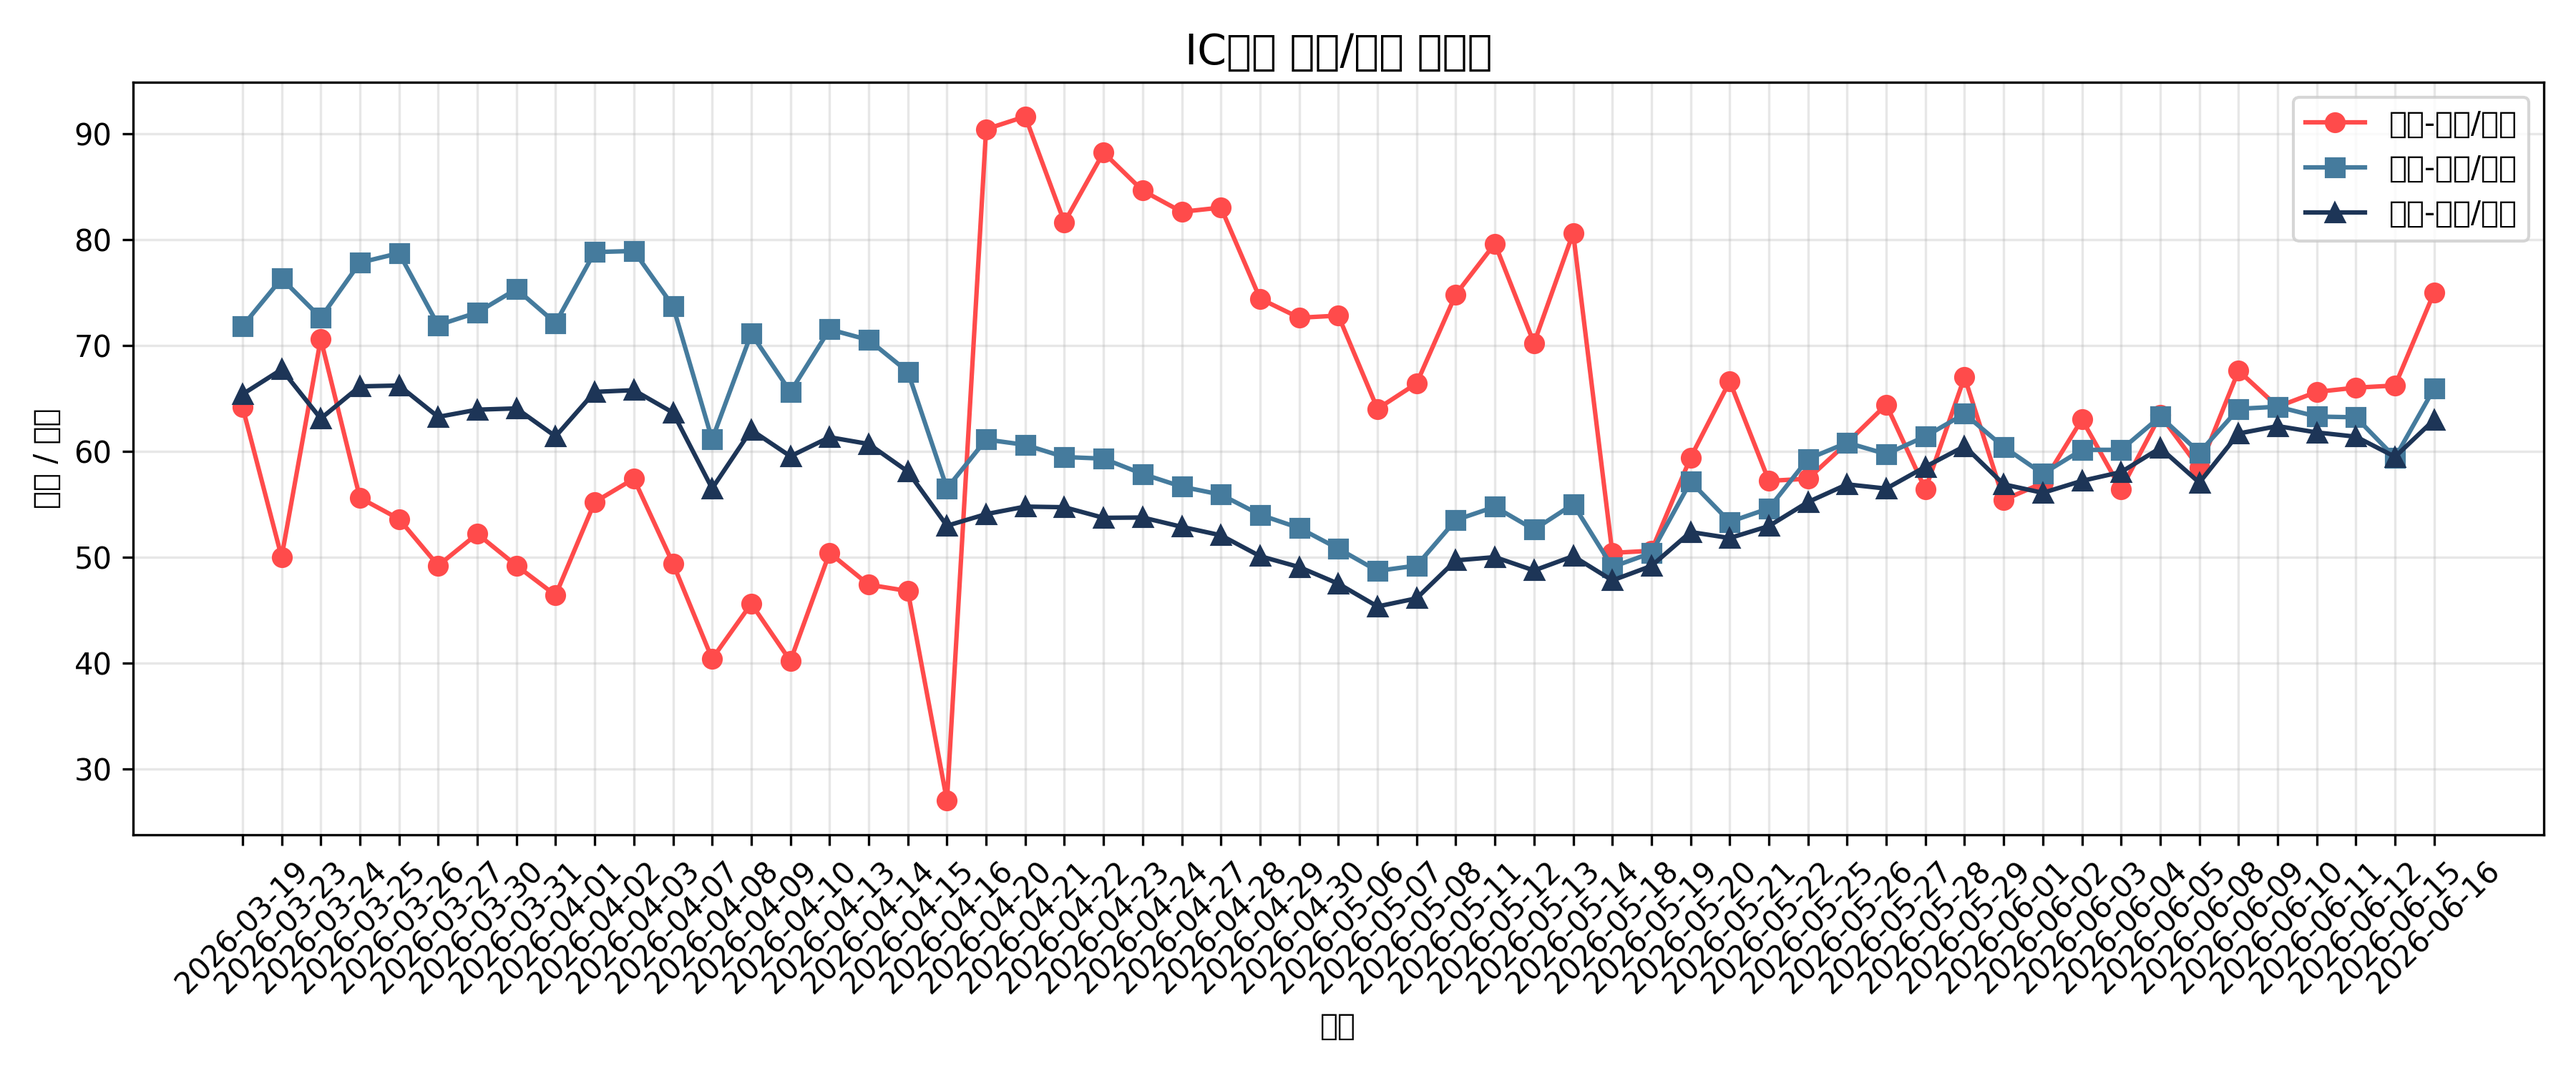
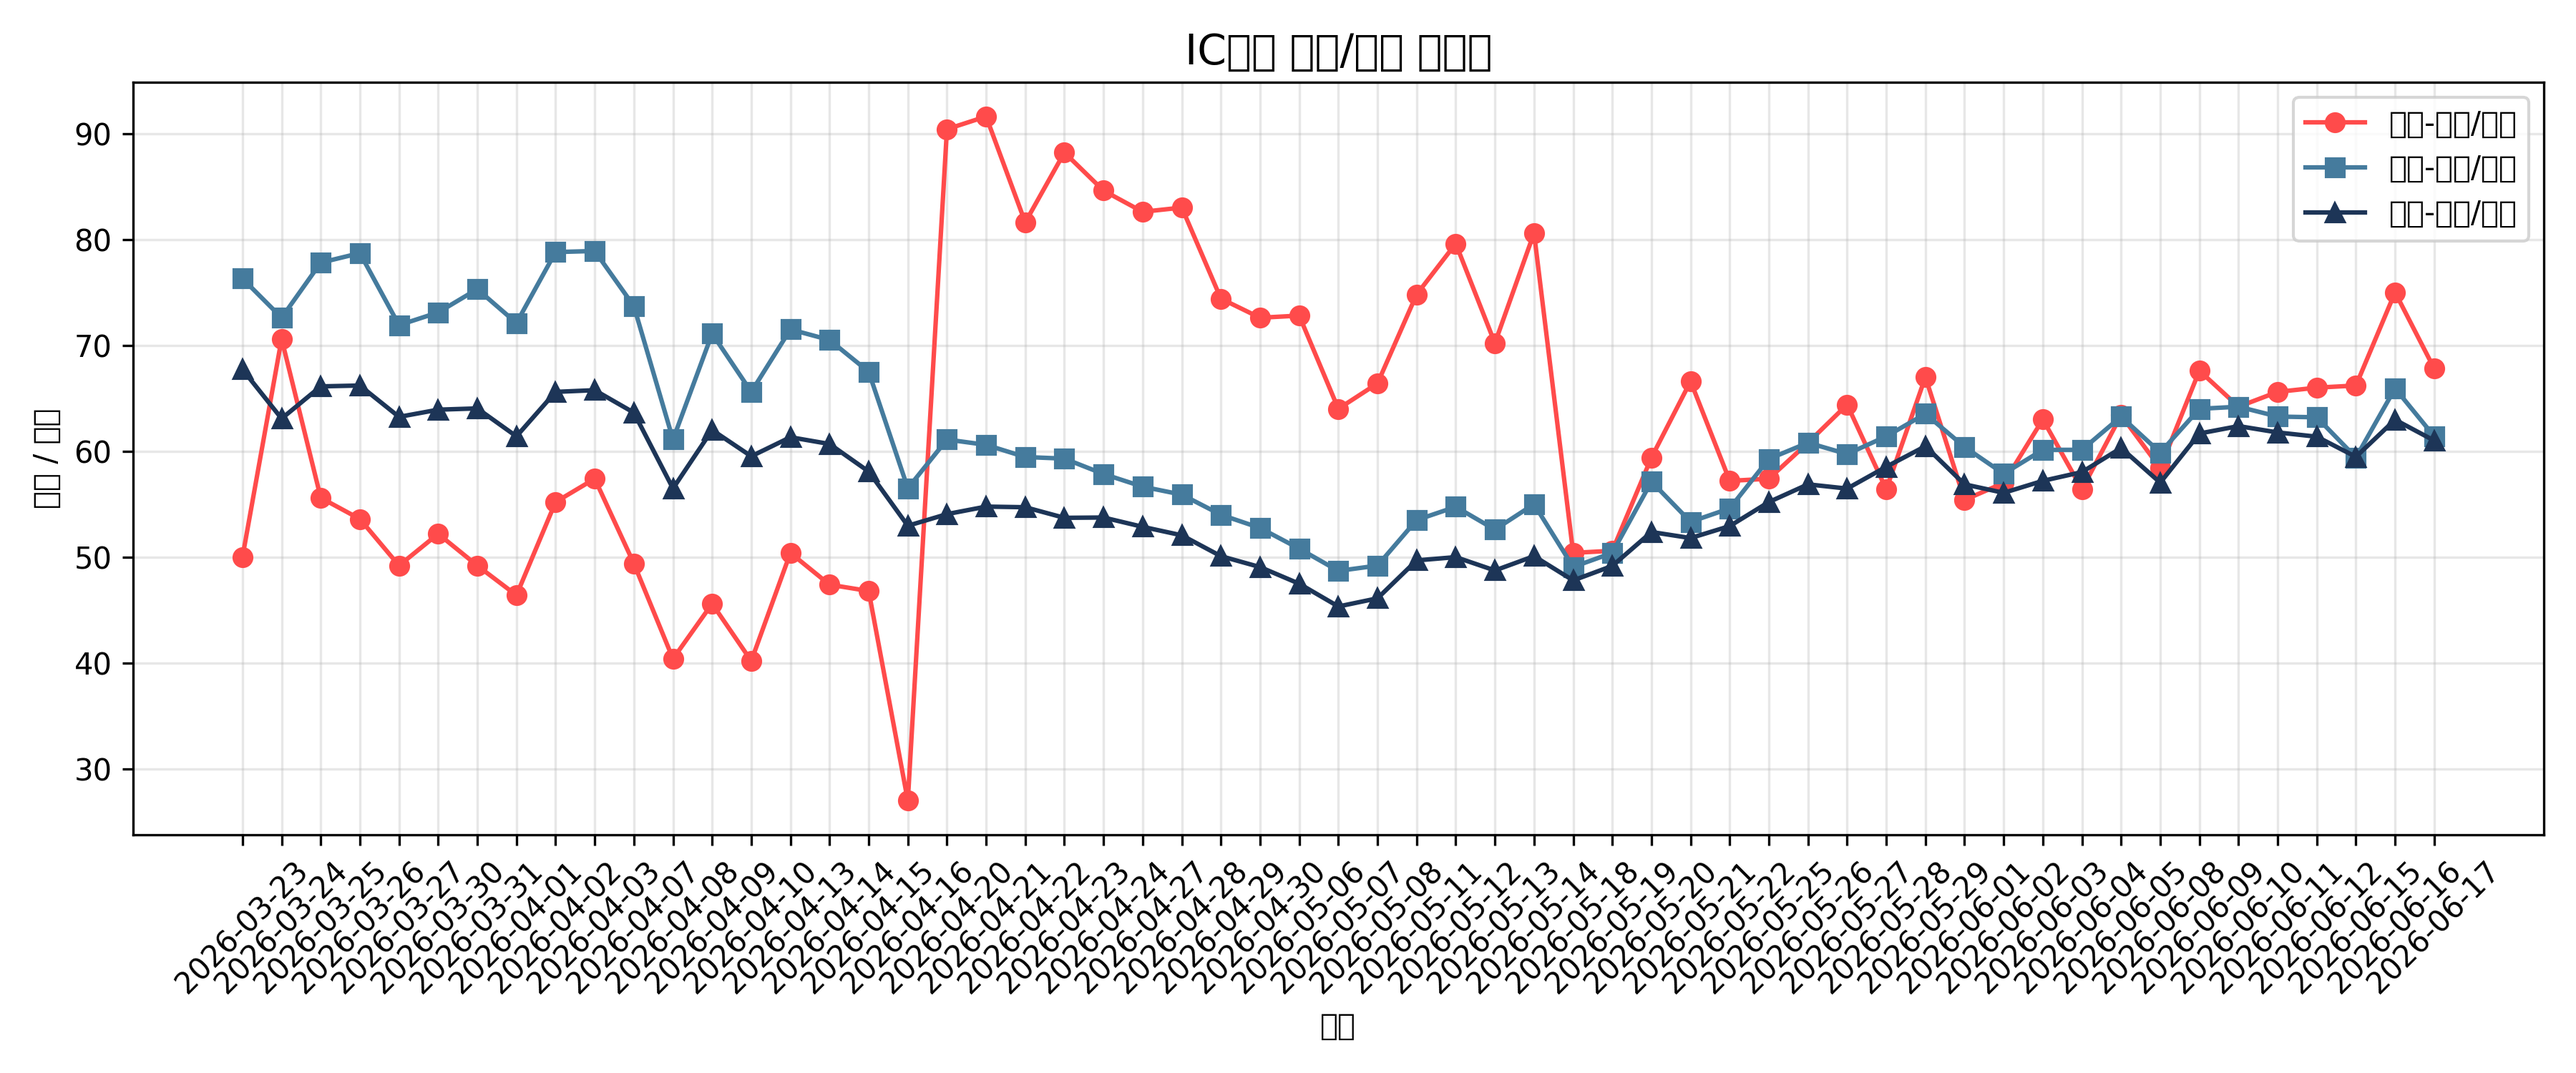
deploy: 4d1bb30b7b0bf8623cc214497fc979b4192c654b

diff --git a/index.html b/index.html
@@ -84,19 +84,19 @@
 <body>
     <div class="container">
         <h1>IC期货基差监控</h1>
-        <div class="last-updated">最后更新：2026-06-16 21:18:07</div>
+        <div class="last-updated">最后更新：2026-06-17 20:43:09</div>
         
         <div class="stats">
             <div class="stat-card">
-                <div class="stat-value">75.0</div>
+                <div class="stat-value">67.8</div>
                 <div class="stat-label">当月-下月/月差</div>
             </div>
             <div class="stat-card">
-                <div class="stat-value">65.93</div>
+                <div class="stat-value">61.4</div>
                 <div class="stat-label">当月-当季/月差</div>
             </div>
             <div class="stat-card">
-                <div class="stat-value">62.97</div>
+                <div class="stat-value">61.0</div>
                 <div class="stat-label">当月-下季/月差</div>
             </div>
         </div>
@@ -114,14 +114,6 @@
                 <th>当月-下月/月差</th>
                 <th>当月-当季/月差</th>
                 <th>当月-下季/月差</th>
-            </tr>
-
-            <tr>
-                <td>2026-06-08</td>
-                <td>IC2606</td>
-                <td>58.4</td>
-                <td>59.87</td>
-                <td>57.03</td>
             </tr>
 
             <tr>
@@ -170,6 +162,14 @@
                 <td>75.0</td>
                 <td>65.93</td>
                 <td>62.97</td>
+            </tr>
+
+            <tr>
+                <td>2026-06-17</td>
+                <td>IC2606</td>
+                <td>67.8</td>
+                <td>61.4</td>
+                <td>61.0</td>
             </tr>
 
         </table>
